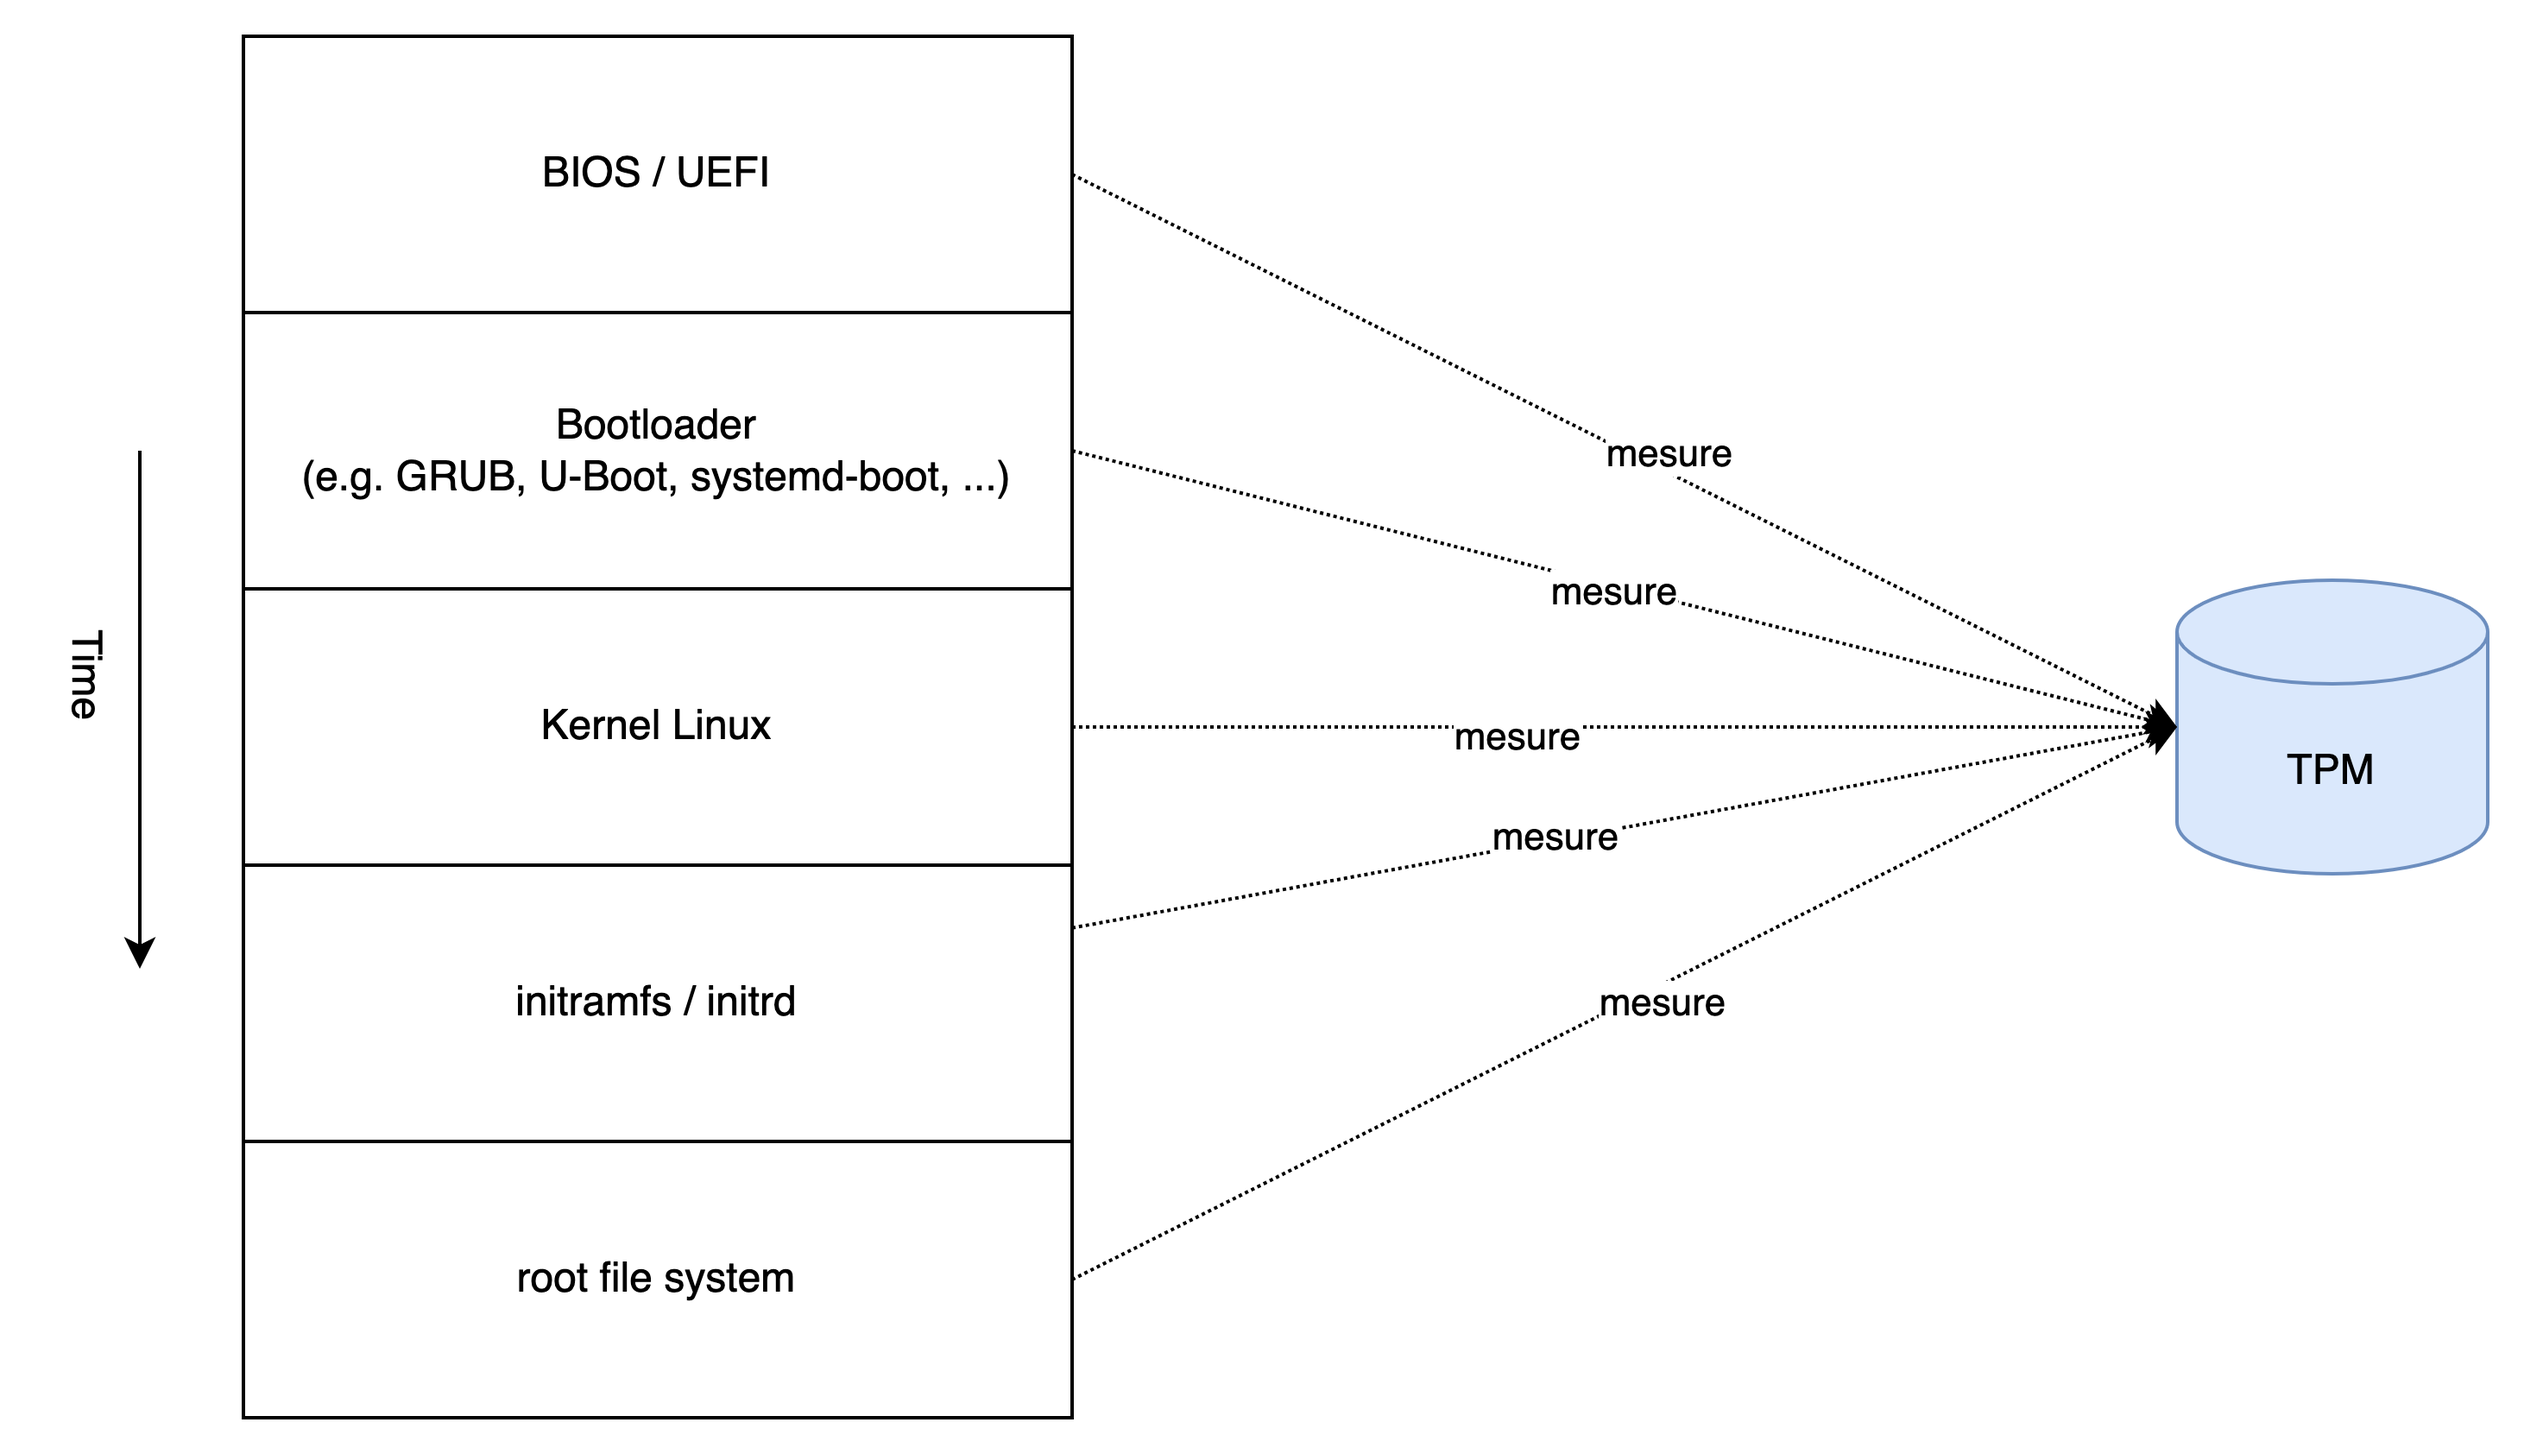
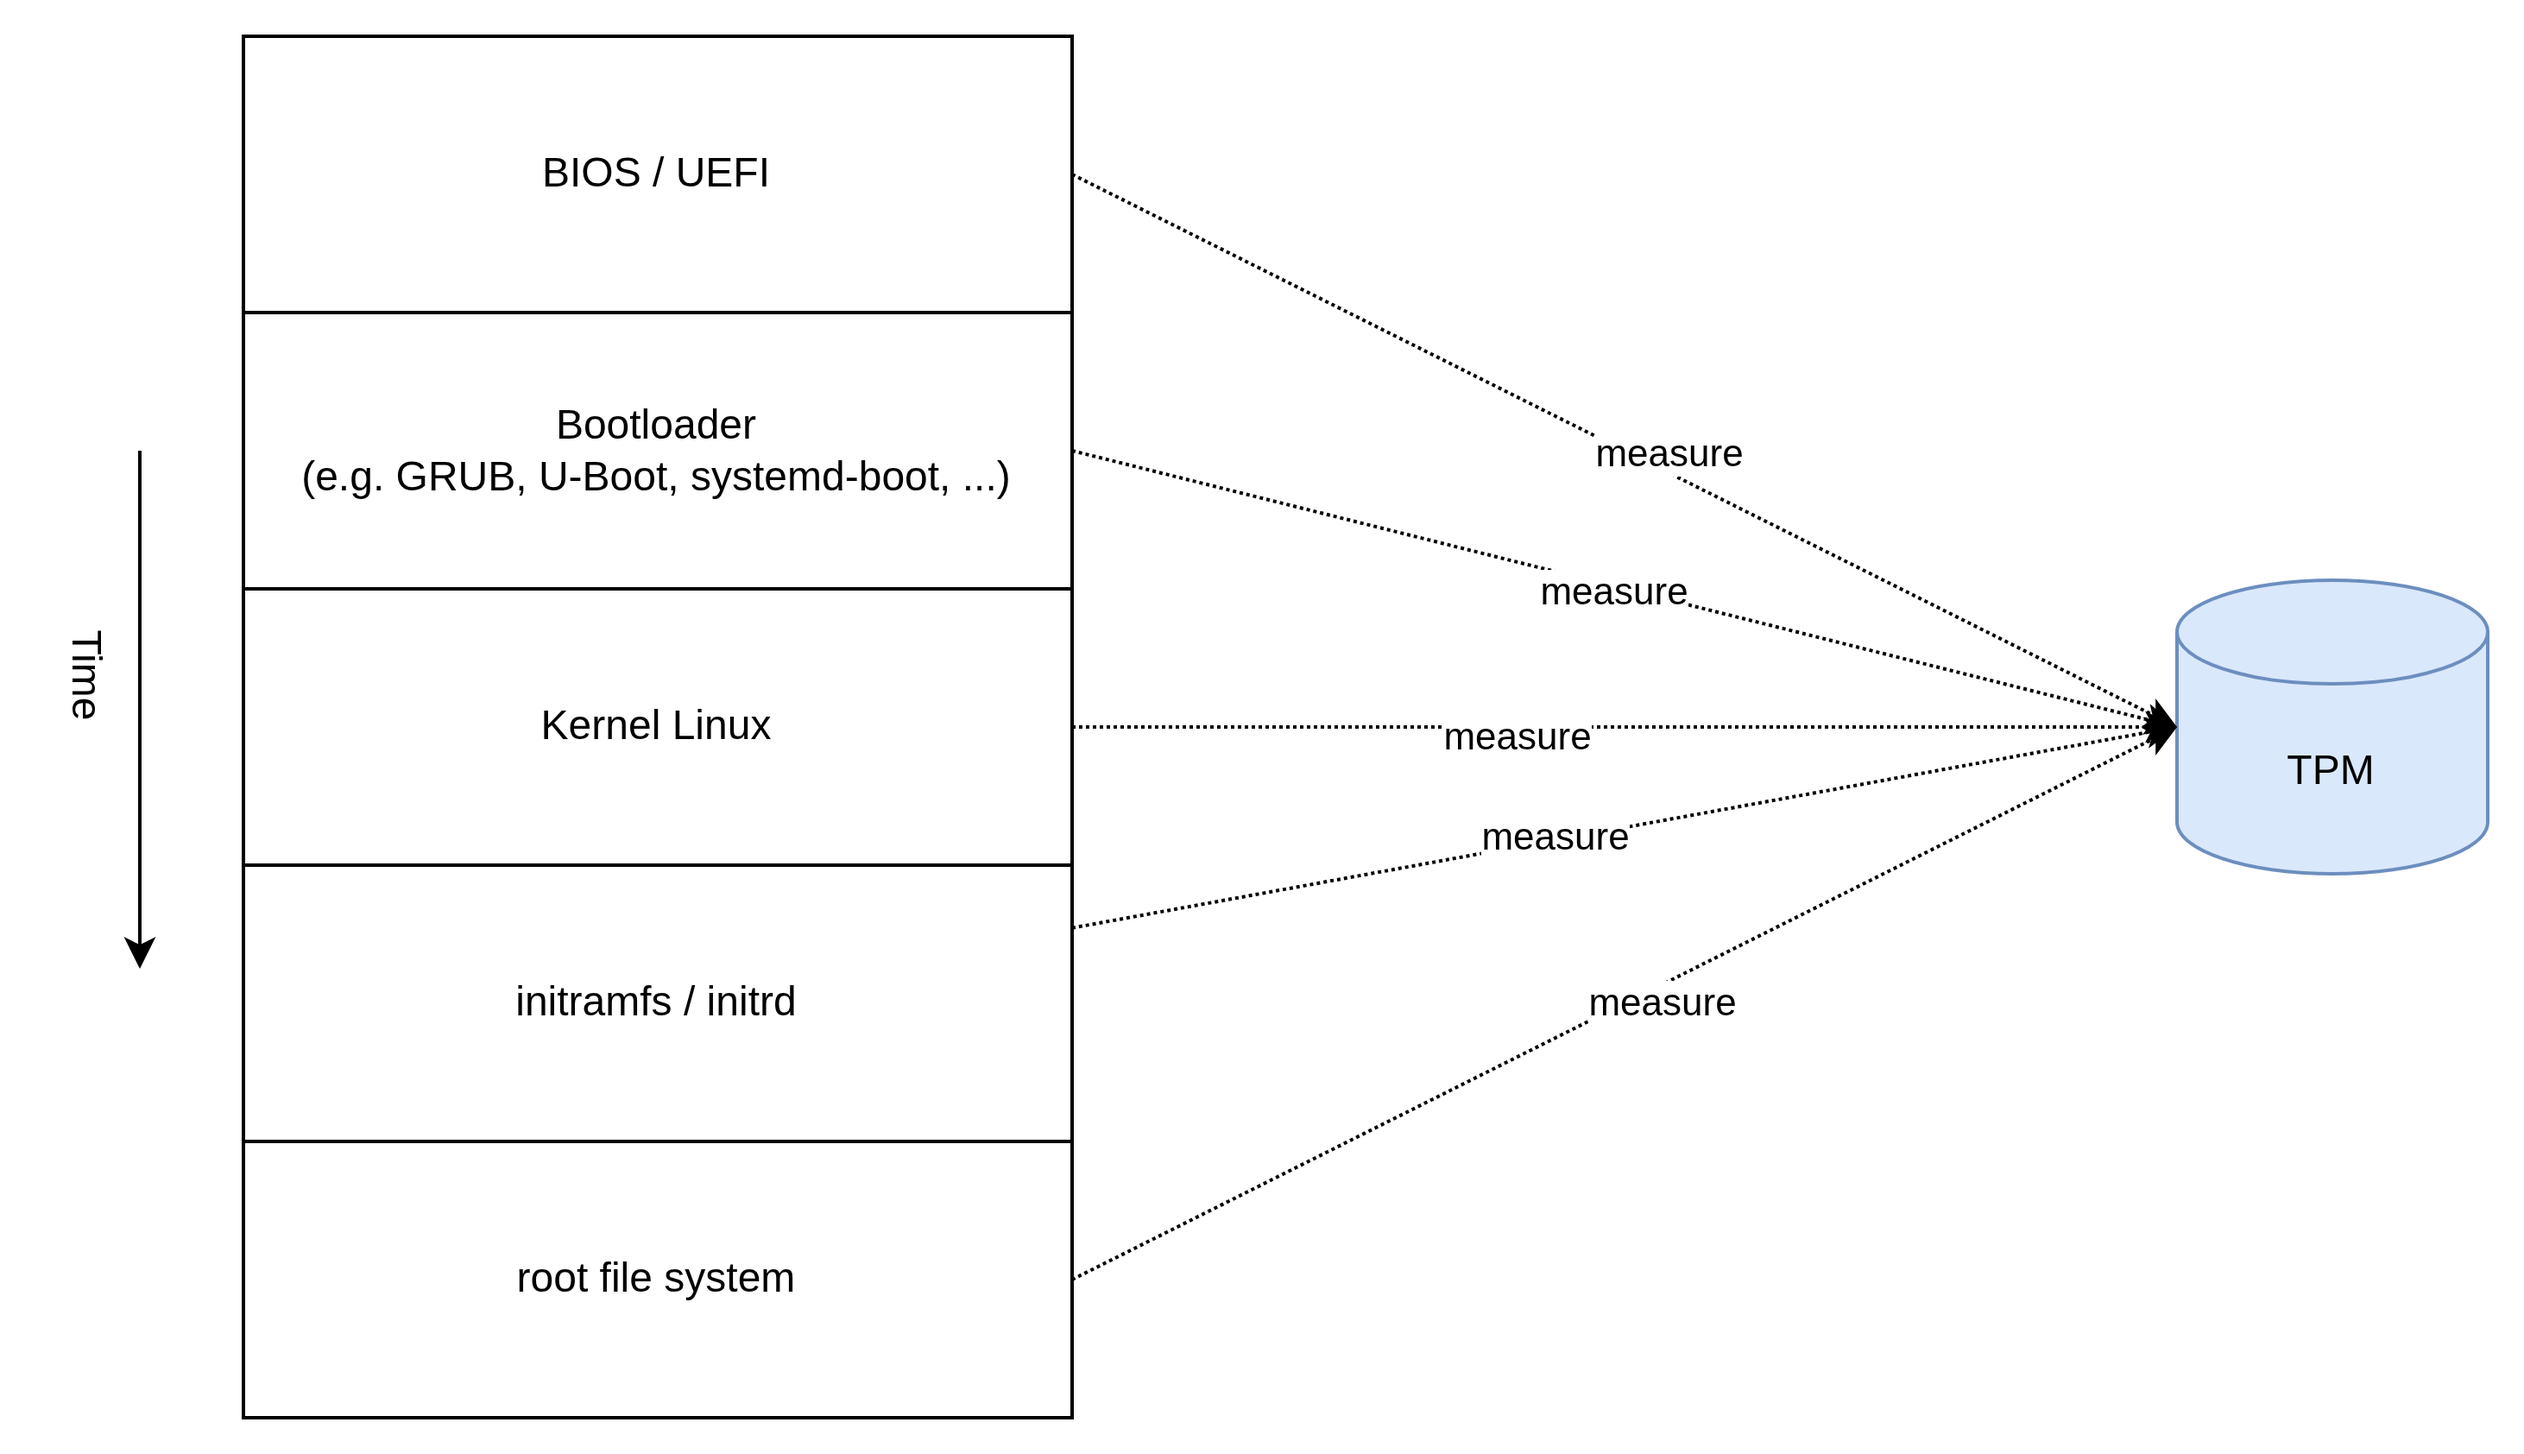
fix: correct a bunch of typos

diff --git a/pills/04-create-a-tpm-key.md b/pills/04-create-a-tpm-key.md
@@ -43,9 +43,9 @@ Below is a full list of hierarchies:
 
 | Name | Purpose | Type |
 | ---- | ------- | ---- |
-| Storage or Owner hierarchy | Intended for non-privacy-sentive operations by the platform owner (e.g., an IT department, the end user).  | Persisted | 
+| Storage or Owner hierarchy | Intended for non-privacy-sensitive operations by the platform owner (e.g., an IT department, the end user).  | Persisted | 
 | Platform hierarchy | Intended to be under the control of the platform manufacturer[^3] for early boot tasks (e.g., BIOS, UEFI). In other words, it's not meant to be used by the end user. | Persisted |
-| Endorsement hierarchy | Intended for privacy-sentive operations when the user or an organization has privacy concerns.  | Persisted |
+| Endorsement hierarchy | Intended for privacy-sensitive operations when the user or an organization has privacy concerns.  | Persisted |
 | Null hierarchy | Intended to store ephemeral objects (e.g. sessions, context, etc.) used internally by the TPM. The end user can use this hierarchy to use ephemeral keys that will be erased at reboot. | Volatile |
 
 <p align="center"><b>Table: </b><em>Four TPM hierarchies</em></p>
@@ -53,7 +53,7 @@ Below is a full list of hierarchies:
 <div class="info">
 <b>What does "privacy" means in the TPM specification?</b>
 
-<code class="hljs">Privacy</code> refers to mecanisms which prevent a third party from correlating or identifying that multiple keys originate from the same TPM.
+<code class="hljs">Privacy</code> refers to mechanisms which prevent a third party from correlating or identifying that multiple keys originate from the same TPM.
 
 <em>Note: in a enterprise context, the opposite may be desirable for auditing and control purposes.</em>
 </div>

diff --git a/pills/00-preface.md b/pills/00-preface.md
@@ -16,11 +16,11 @@ That is why, I am taking on the challenge of producing a (relatively) comprehens
 <code class="hljs">TPM Pills</code> is a direct tribute to <a href="https://nixos.org/guides/nix-pills" target="_blank"><code class="hljs">Nix Pills</code></a>, who has helped many people discover the <a href="https://nixos.org" target="_blank">nix</a> language!
 </div>
 
-A series of articles that gradually introduce the key concepts about a TPM. The goal is that by the end of reading `TPM Pills`, you will have a solid understanding of the functionalities offered by a TPM in order to reduce the complexity of TPM 2.0 specification[^1] if you find yourself reading it. Additionally, each article will be accompanied by a reproductible example to make things more concrete.
+A series of articles that gradually introduce the key concepts about a TPM. The goal is that by the end of reading `TPM Pills`, you will have a solid understanding of the functionalities offered by a TPM in order to reduce the complexity of TPM 2.0 specification[^1] if you find yourself reading it. Additionally, each article will be accompanied by a reproducible example to make things more concrete.
 
 > *Note: `TPM Pills` will refer a bunch of time to the TPM 2.0 specification. Knowing that the latter evolves over time, we will use the latest version[^2] available at the time of writing.*  
 >
-> *The spec is also available in [here](https://github.com/loicsikidi/tpm-pills/tree/main/assets/resources) in the repository.*
+> *The spec is also available [here](https://github.com/loicsikidi/tpm-pills/tree/main/assets/resources) in the repository.*
 
 Finally, it is important to emphasize that this content is **free**.
 

diff --git a/pills/02-install-tooling.md b/pills/02-install-tooling.md
@@ -89,7 +89,7 @@ tpm2 --version
 <div class="info">
 <b>Info</b>
 
- For those who are unfamiliar, <a href="https://github.com/jetify-com/devbox" target="_blank">Devbox</a> is a layer on top of <b>Nix</b> that allows you to obtain a deterministic shell without having to master Nix language.
+ For those who are unfamiliar, <a href="https://github.com/jetify-com/devbox" target="_blank">Devbox</a> is a layer on top of <b>Nix</b> that allows you to obtain a deterministic shell without having to master the Nix language.
 </div>
   
 If you are a Devbox user, `TPM Pills` also provides a configuration (i.e. `devbox.json`) at the root of the repository.  
@@ -116,9 +116,9 @@ tpm2 --version
 * **swtpm**: Use your preferred package manager or build the sources by following the [official documentation](https://github.com/stefanberger/swtpm/wiki)
 * **tpm2-tools**: Use your preferred *package manager* or build the sources by following the [official documentation](https://tpm2-tools.readthedocs.io/en/latest/INSTALL/)
 
-## Example: validate TPM's version  
+## Example: validate TPM's version
 
-Let’s finally get to the serious stuff! We will check the version of the TPM installed on your machine and ensure that it is a `TPM 2.0`. We will able to do this by interacting directly with the TPM using a command called `TPM2_GetCapability`.
+Let's finally get to the serious stuff! We will check the version of the TPM installed on your machine and ensure that it is a `TPM 2.0`. We will be able to do this by interacting directly with the TPM using a command called `TPM2_GetCapability`.
 
 <div class="info">
 <b>Info</b>

diff --git a/pills/01-why-tpm-is-super-dope.md b/pills/01-why-tpm-is-super-dope.md
@@ -91,7 +91,7 @@ Contrary to Microsoft and Linux, Apple made the decision to use a proprietary so
 <div class="info">
 <b>Tip</b>
 
-If you are a macOS user, you can still stay with us because most of the exemples will use a Software TPM which you will be able to run on your machine.
+If you are a macOS user, you can still stay with us because most of the examples will use a Software TPM which you will be able to run on your machine.
 </div>
 
 ## Next pill...
@@ -108,7 +108,7 @@ If you are a macOS user, you can still stay with us because most of the exemples
 
 [^1]: Hardware Security Module (see more in [Wikipedia](https://en.wikipedia.org/wiki/Hardware_security_module))
 [^2]: see more in [Wikipedia](https://en.wikipedia.org/wiki/Smart_card)
-[^3]: via a `Secure Boot` or a `Mesured Boot`.
+[^3]: via a `Secure Boot` or a `Measured Boot`.
 [^4]: it has its own memory (RAM) and its own storage, although the resources are very limited.
 [^5]: [Window 11 - System requirements](https://www.microsoft.com/en-us/windows/windows-11-specifications?r=1#table1)
 [^6]: This decision by a tech giant led to a drop in TPM prices.
